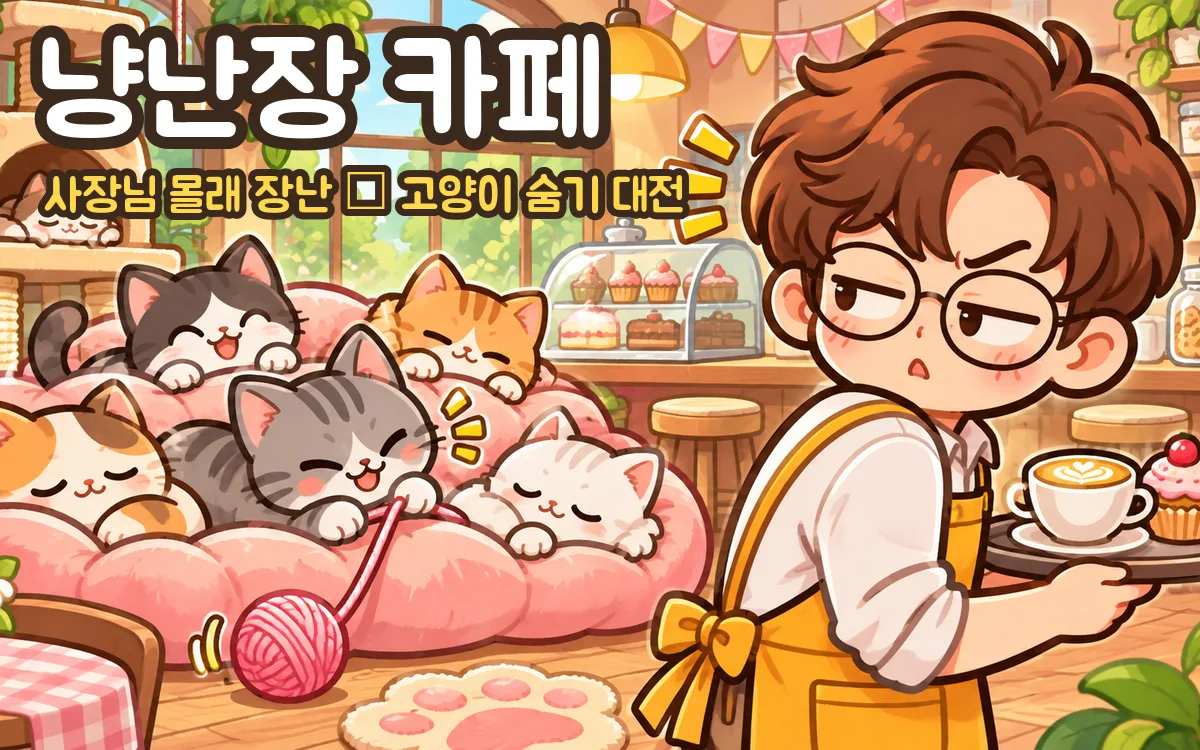
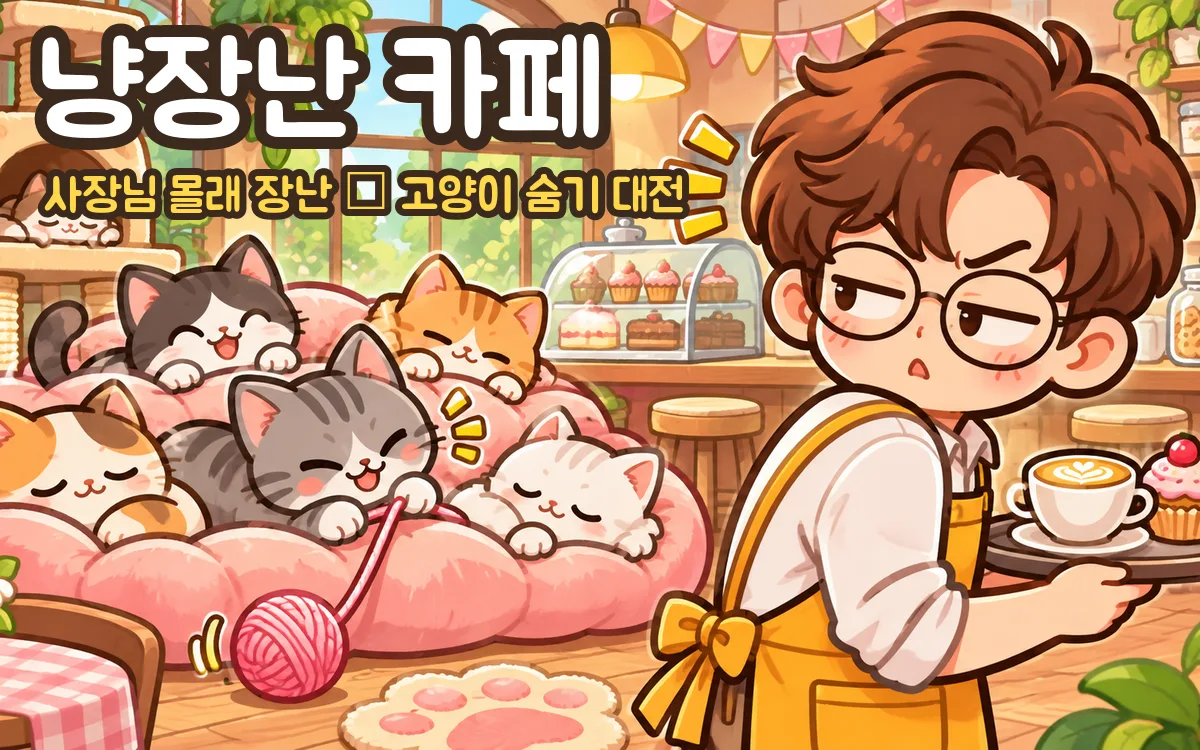
chore(sites): 냥난장 카페 → 냥장난 카페(이름·썸네일)
Claude-Session: https://claude.ai/code/session_01SkaQPpAfMLbzS7iAAfX8Ef

Changed region(s): [[0.1233, 0.0307, 0.3083, 0.2147]]

diff --git a/src/data/projects.ts b/src/data/projects.ts
@@ -1854,7 +1854,7 @@ export const learningSites: LearningSite[] = [
   {
     slug: 'nyang-cafe',
     added: '2026-11-15T12:25',
-    name: '냥난장 카페',
+    name: '냥장난 카페',
     subject: '교과 대항전',
     category: '국어·통합',
     tags: ['여러 과목', '공부·연습', '액션', '학교 대항'],
